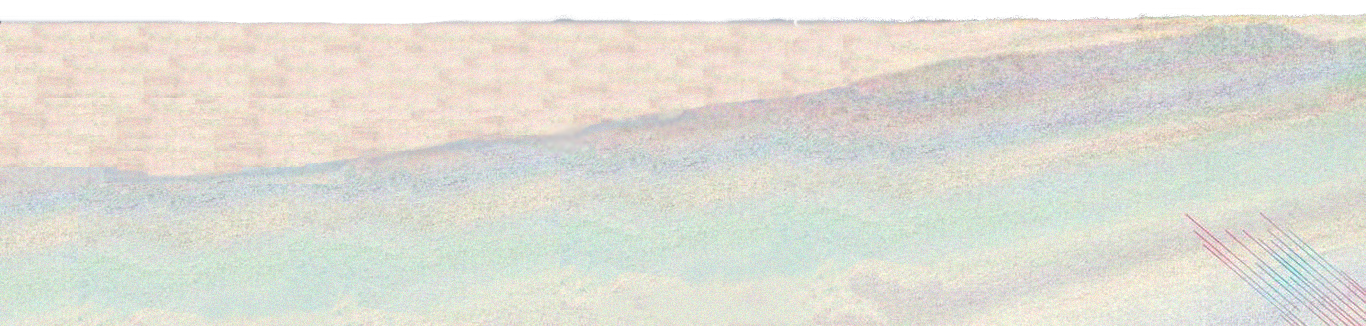
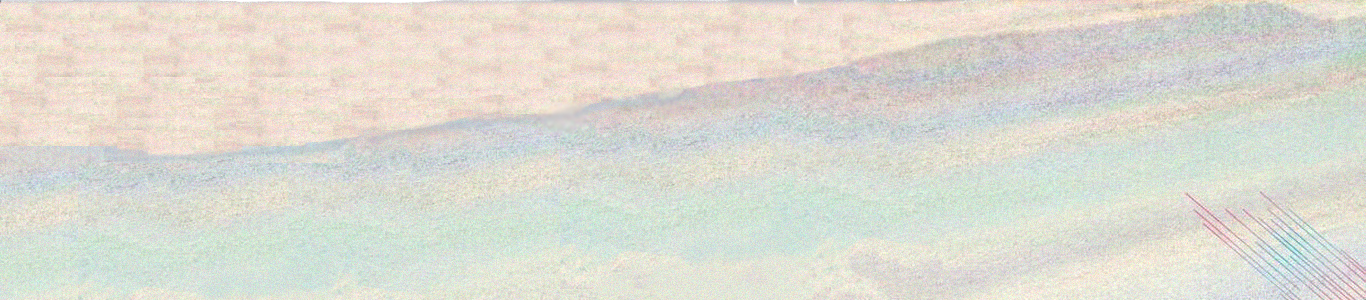
이미지 html로 옮김

diff --git a/style.css b/style.css
@@ -45,12 +45,16 @@ span {
   position: absolute;
   transform: translate(-50%, -50%);
   filter: drop-shadow(2px 2px 2px #b01062);
-  top: 55%;
+  top: 45%;
   left: 50%;
 }
 
 .click:hover {
   cursor: pointer;
+}
+.click.hide {
+  opacity: 0;
+  transition: all 0.5s;
 }
 .line-container {
   position: absolute;
@@ -142,51 +146,58 @@ span {
   transition: all 1s;
 }
 
+.ground-container {
+  width: 100%;
+  position: absolute;
+  top: 70%;
+  display: flex;
+  flex-direction: column;
+}
+
 .cloud-over {
-  top: 100px;
   width: 100%;
   height: 100%;
+  position: absolute;
+  bottom: 0;
 }
 
 .cloud-over.show {
-  transition: all 1s;
   position: absolute;
-  top: -15%;
+  bottom: 98%;
   width: 100%;
-  height: 937px;
-  background-image: url(./img/구름전경.png);
-  background-repeat: no-repeat;
-  background-size: cover;
+  height: 40%;
 }
 
 .ground {
-  position: absolute;
-  bottom: -50%;
-  width: 100%;
-  height: 90%;
-  background-image: url(./img/바닥.png);
-  background-repeat: no-repeat;
-  background-size: cover;
+  z-index: 1;
+  bottom: -300%;
+  width: 200%;
+  height: 200%;
 }
 
 .title-container {
   opacity: 0%;
+  width: 100%;
+  top: 45%;
+  left: 50%;
+  transform: translate(-50%, -50%);
 }
+
 .title-container.show {
+  position: fixed;
   transition: all 5s;
   opacity: 100%;
 }
 
 .title {
   position: fixed;
-  top: 42%;
+  top: 50%;
   left: 50%;
   transform: translate(-50%, -50%);
   font-family: "국립박물관문화재단클래식B";
   font-size: 45px;
   width: 100%;
   text-align: center;
-  filter: blur(0.3px);
   background: -webkit-linear-gradient(
     -45deg,
     #7d3c94 30%,
@@ -202,6 +213,7 @@ span {
 }
 
 a {
+  z-index: 1;
   position: absolute;
   left: 50%;
   bottom: -10%;
@@ -218,6 +230,7 @@ li {
 }
 
 footer {
+  z-index: 1;
   font-family: "MaruBuri-Regular";
   color: #2f3b5d;
   position: absolute;

diff --git a/index.html b/index.html
@@ -27,8 +27,10 @@
             <span class="title top"><b>우리가 빛의 속도로 갈 수 없다면</b></span>
             <span class="title bottom"><b>우리가 빛의 속도로 갈 수 없다면</b></span>
         </div>
-        <div class="cloud-over"></div>
-        <div class="ground"></div>
+        <div class="ground-container">
+            <img class="cloud-over" src="./img/구름전경.png" alt=""></img>
+            <img class="ground" src="./img/바닥.png"></img>
+        </div>
     </div>
     <nav class='nav'>
         <li class="nav-list"><a href="./interaction/index.html">click here</a></li>

diff --git a/index.js b/index.js
@@ -16,7 +16,10 @@ moon.addEventListener("click", function() {
 });
 
 window.addEventListener("click", function(){
+    clickBtn.classList.add("hide");
     for (i=0;i<=array.length;i++) {
-        array[i].classList.add("show")
+        console.log(array[i])
+        array[i].classList.add("show");
     }
+    clickBtn.classList.remove("click");
 });
